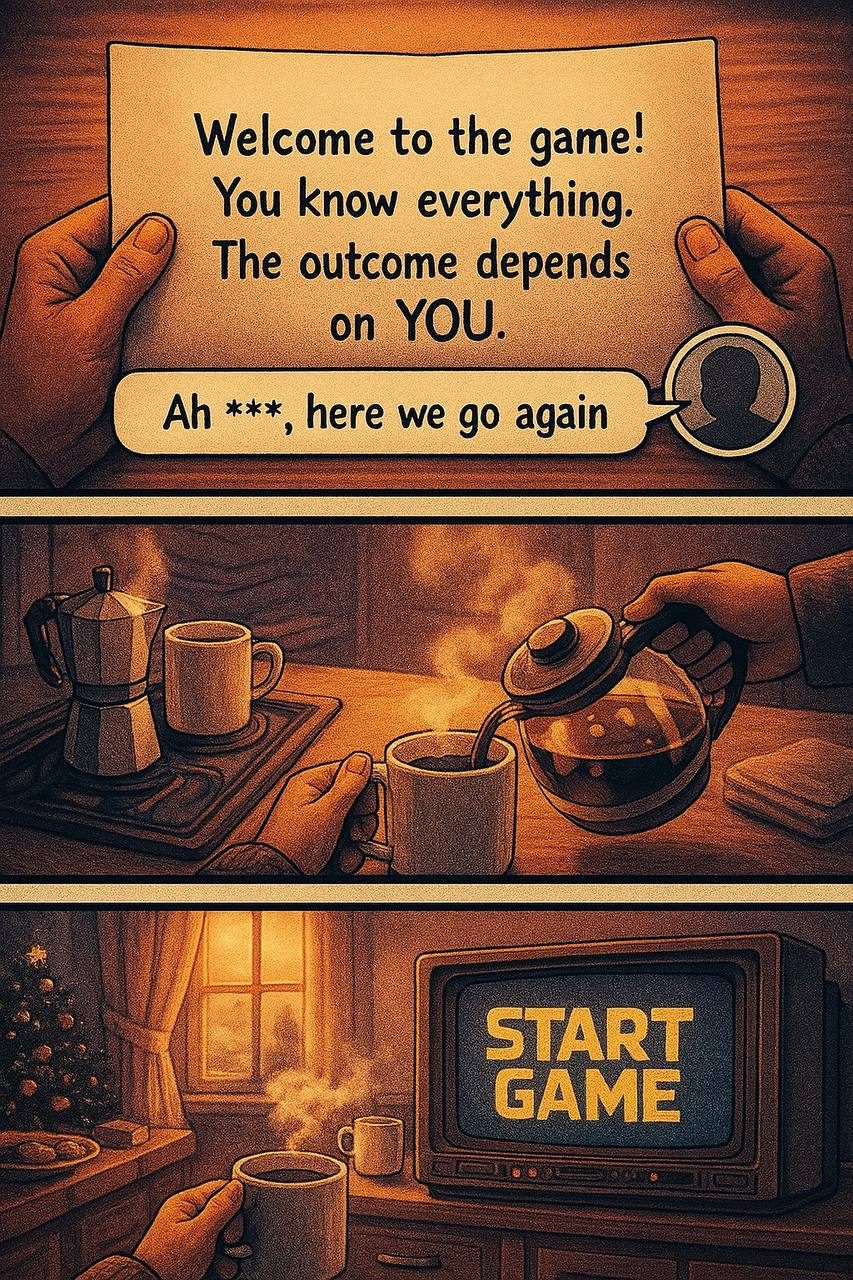
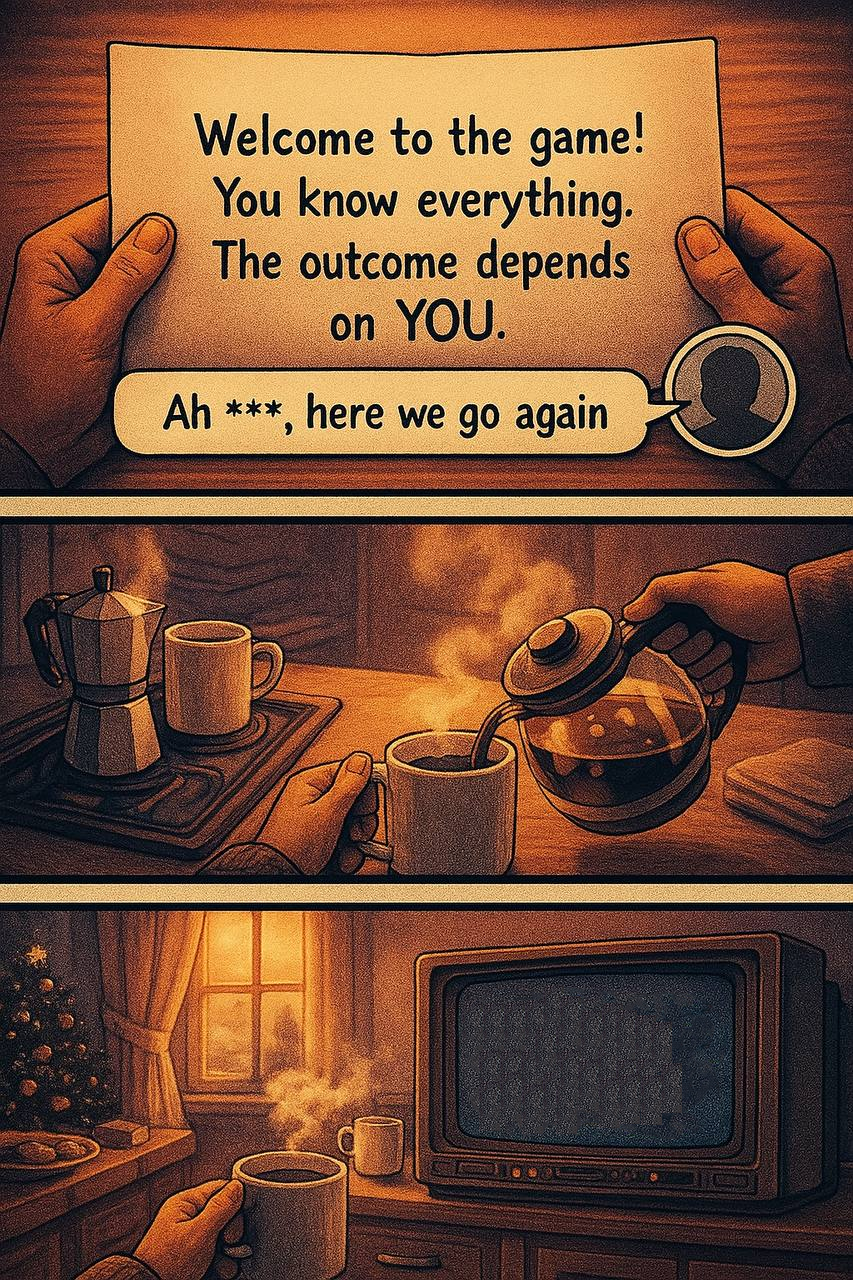
Fix intro start button and rules opening

Changed region(s): [[0.5487, 0.75, 0.8535, 0.9062]]

diff --git a/js/main.js b/js/main.js
@@ -1154,7 +1154,9 @@
         const introAvatar = document.getElementById("introAvatar");
         const introStartBtn = document.getElementById("introStartBtn");
 
-        if (!introModal) return;
+        if (!introModal || !introImage || !introPrevBtn || !introNextBtn || !introCloseBtn || !introCounter || !introAvatar || !introStartBtn) {
+            return;
+        }
 
         const introPages = [
             "img/comics/intro/page-1.png",
@@ -1168,7 +1170,7 @@
             introImage.src = introPages[introIndex];
             introCounter.textContent = `${introIndex + 1} / ${introPages.length}`;
 
-            // Показываем аватар и START GAME ТОЛЬКО на 3-й странице
+            // Аватар и START GAME только на 3-й странице
             if (introIndex === 2) {
                 introAvatar.style.display = "block";
                 introStartBtn.style.display = "block";
@@ -1177,7 +1179,7 @@
                 introStartBtn.style.display = "none";
             }
 
-            // Кнопки навигации
+            // Стрелки
             introPrevBtn.style.display = introIndex === 0 ? "none" : "block";
             introNextBtn.style.display = introIndex === introPages.length - 1 ? "none" : "block";
         }
@@ -1189,11 +1191,13 @@
             document.body.style.overflow = "hidden";
 
             // Подставляем аватар юзера
-            if (window.MBHA_CURRENT_USER && window.MBHA_CURRENT_USER.code) {
-                introAvatar.querySelector("img").src =
-                    `img/avatars/${window.MBHA_CURRENT_USER.code}.png`;
-            } else {
-                introAvatar.querySelector("img").src = "img/avatars/GUEST.png";
+            const avatarImg = introAvatar.querySelector("img");
+            if (avatarImg) {
+                if (window.MBHA_CURRENT_USER && window.MBHA_CURRENT_USER.code) {
+                    avatarImg.src = `img/avatars/${window.MBHA_CURRENT_USER.code}.png`;
+                } else {
+                    avatarImg.src = "img/avatars/GUEST.png";
+                }
             }
         }
 
@@ -1218,16 +1222,19 @@
 
         introCloseBtn.addEventListener("click", closeIntro);
 
+        // START GAME: закрываем интро и открываем RULES
         introStartBtn.addEventListener("click", () => {
             closeIntro();
-            if (typeof openRules === "function") {
-                openRules();
+            const rulesBtn = document.getElementById("rulesBtn");
+            if (rulesBtn) {
+                rulesBtn.click(); // триггерим уже существующую логику открытия модалки правил
             }
         });
 
-        // Делаем функцию глобальной, чтобы можно было открыть из teamModal
+        // Глобалка, чтобы вызывать из teamModal
         window.openIntroComics = openIntro;
     })();
+
 
 
 })();

diff --git a/css/style.css b/css/style.css
@@ -1632,9 +1632,10 @@ body {
 
 .intro-modal__avatar {
     position: absolute;
-    top: 17%;
-    right: 13%;
-    width: 90px;
+    /* сместил ниже и чуть правее, чтобы попасть по оригинальной иконке */
+    top: 24%;
+    right: 17%;
+    width: 82px;
     aspect-ratio: 1 / 1;
     border-radius: 50%;
     overflow: hidden;
@@ -1654,67 +1655,57 @@ body {
 
 .intro-modal__start-label {
     position: absolute;
-    bottom: 15%;
-    right: 15%;
+    bottom: 10%;
+    /* сдвинул левее, чтобы лечь по центру плашки на телике */
+    right: 26%;
     transform-origin: center;
-    padding: 6px 18px;
+    padding: 8px 32px;
     border-radius: 999px;
-    border: 2px solid #f97316;
-    background: rgba(15, 23, 42, 0.9);
-    color: #fed7aa;
+    border: 3px solid #f97316;
+    background: linear-gradient(#fed7aa, #fb923c, #ea580c);
+    color: #111827;
     font-family: "FixedsysLocal", system-ui, sans-serif;
-    font-size: 12px;
-    letter-spacing: 2px;
+    font-size: 13px;
+    letter-spacing: 3px;
     text-transform: uppercase;
     cursor: pointer;
     z-index: 2;
-    box-shadow: 0 0 0 2px #020617, 0 0 16px rgba(249, 115, 22, 0.9);
+    box-shadow: 0 0 0 3px #020617, 0 5px 0 #111827, 0 0 14px rgba(249, 115, 22, 0.9);
     animation: introStartPulse 1.3s ease-in-out infinite;
 }
-
-
-/* Анимация "дыхания" */
 
 @keyframes introStartPulse {
     0% {
         transform: scale(1);
         opacity: 0.9;
-        box-shadow: 0 0 0 2px #020617, 0 0 8px rgba(249, 115, 22, 0.6);
+        box-shadow: 0 0 0 3px #020617, 0 3px 0 #111827, 0 0 8px rgba(249, 115, 22, 0.6);
     }
     45% {
         transform: scale(1.08);
         opacity: 1;
-        box-shadow: 0 0 0 2px #020617, 0 0 20px rgba(249, 115, 22, 1);
+        box-shadow: 0 0 0 3px #020617, 0 6px 0 #111827, 0 0 20px rgba(249, 115, 22, 1);
     }
     100% {
         transform: scale(1);
         opacity: 0.9;
-        box-shadow: 0 0 0 2px #020617, 0 0 8px rgba(249, 115, 22, 0.6);
+        box-shadow: 0 0 0 3px #020617, 0 3px 0 #111827, 0 0 8px rgba(249, 115, 22, 0.6);
     }
 }
 
 
-/* На мобилке всё то же, только чуть уменьшим кнопки/аватар */
+/* мобилка — чуть меньше */
 
 @media (max-width: 768px) {
-    .intro-modal__content {
-        max-width: 380px;
-        padding: 8px;
-    }
-    .intro-modal__nav {
-        font-size: 22px;
-        padding: 4px 8px;
-    }
     .intro-modal__avatar {
-        width: 70px;
-        top: 18%;
-        right: 12%;
+        width: 68px;
+        top: 25%;
+        right: 18%;
     }
     .intro-modal__start-label {
-        bottom: 14%;
-        right: 12%;
+        bottom: 9%;
+        right: 24%;
         font-size: 11px;
-        padding: 4px 14px;
+        padding: 6px 22px;
     }
 }
 
